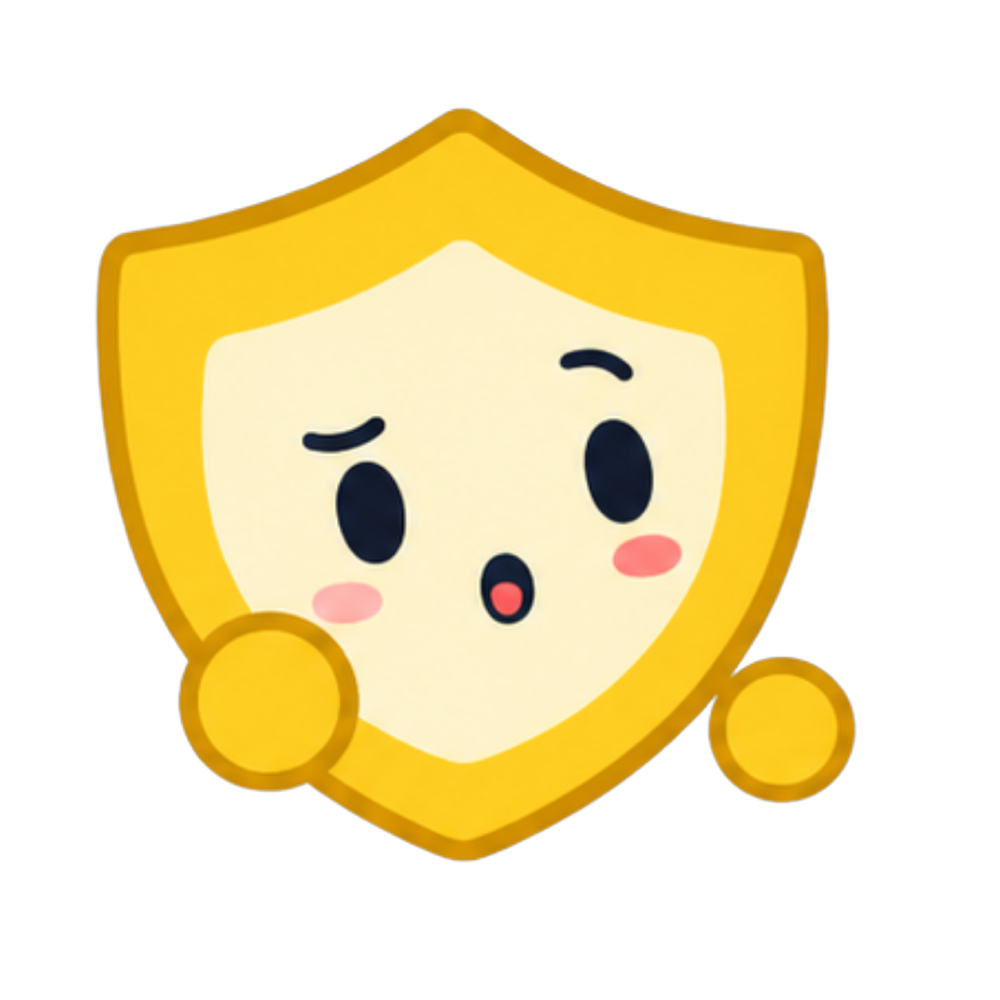
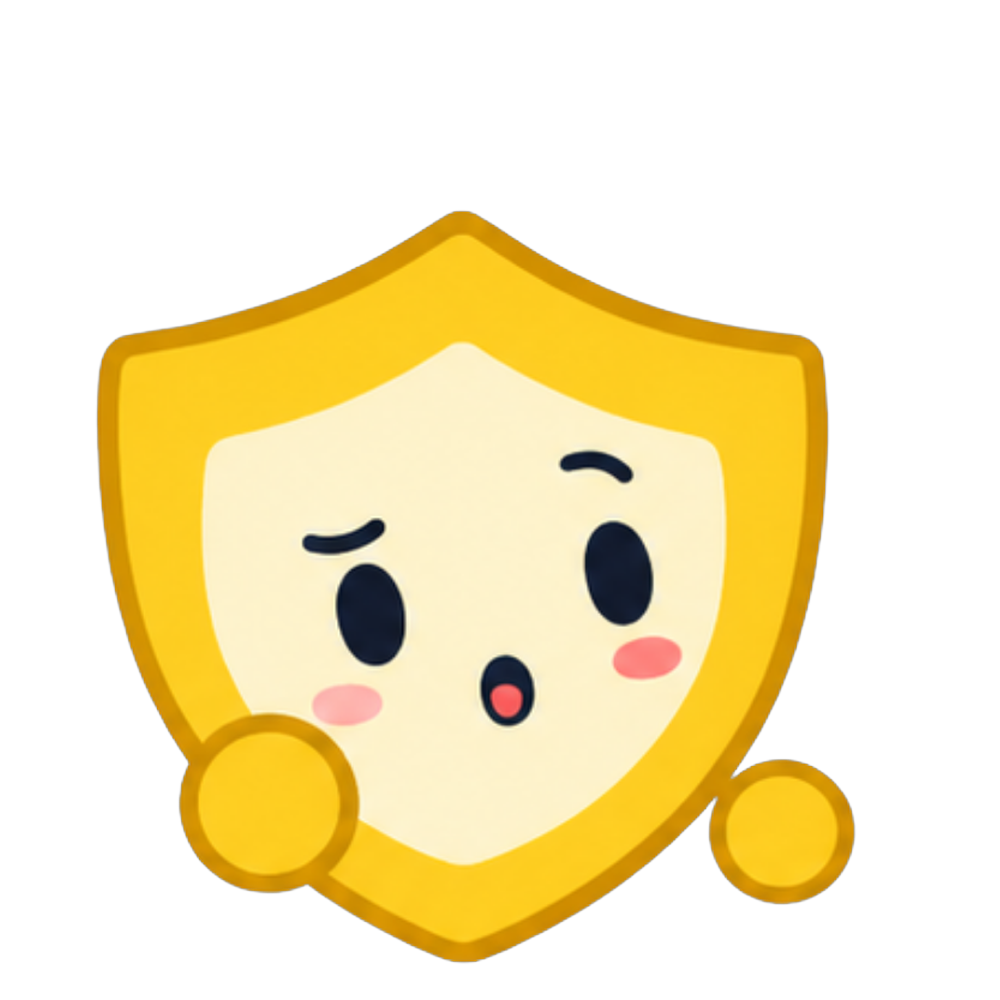
Line Shield Buddy up with the bottom of its speech bubbles
The character moves to the bottom of each image (the same for every mood),
and the game's Buddy spacing is updated for the new artwork.

diff --git a/src/index.css b/src/index.css
@@ -97,8 +97,9 @@ button:active {
   flex: none;
   width: 160px;
   height: 160px;
-  /* The artwork has empty space around the shield */
-  margin: -16px -12px -20px;
+  /* The artwork has empty space above and beside the shield; its bottom lines
+     up with the bottom of the newest bubble (which sits 1em up in its box) */
+  margin: -16px -12px 1em;
 }
 
 /* The bubbles stack up inside a box. Once the stack is too tall it fades out at the
